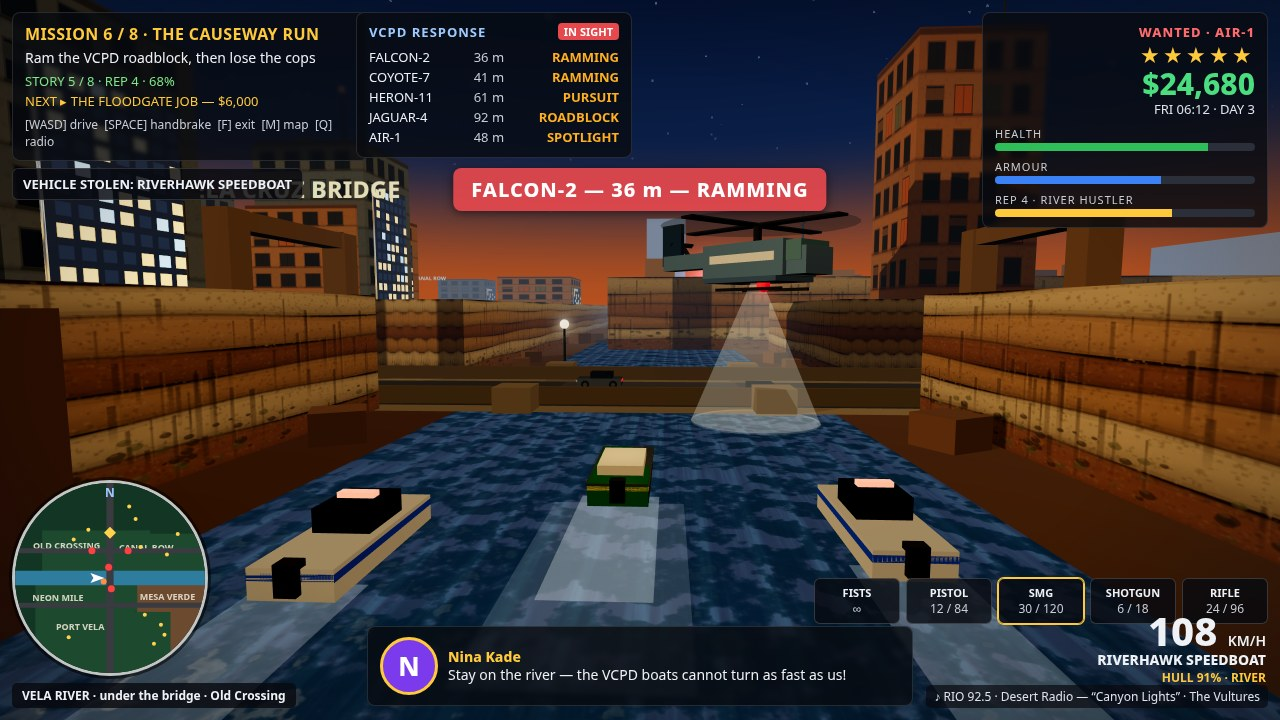
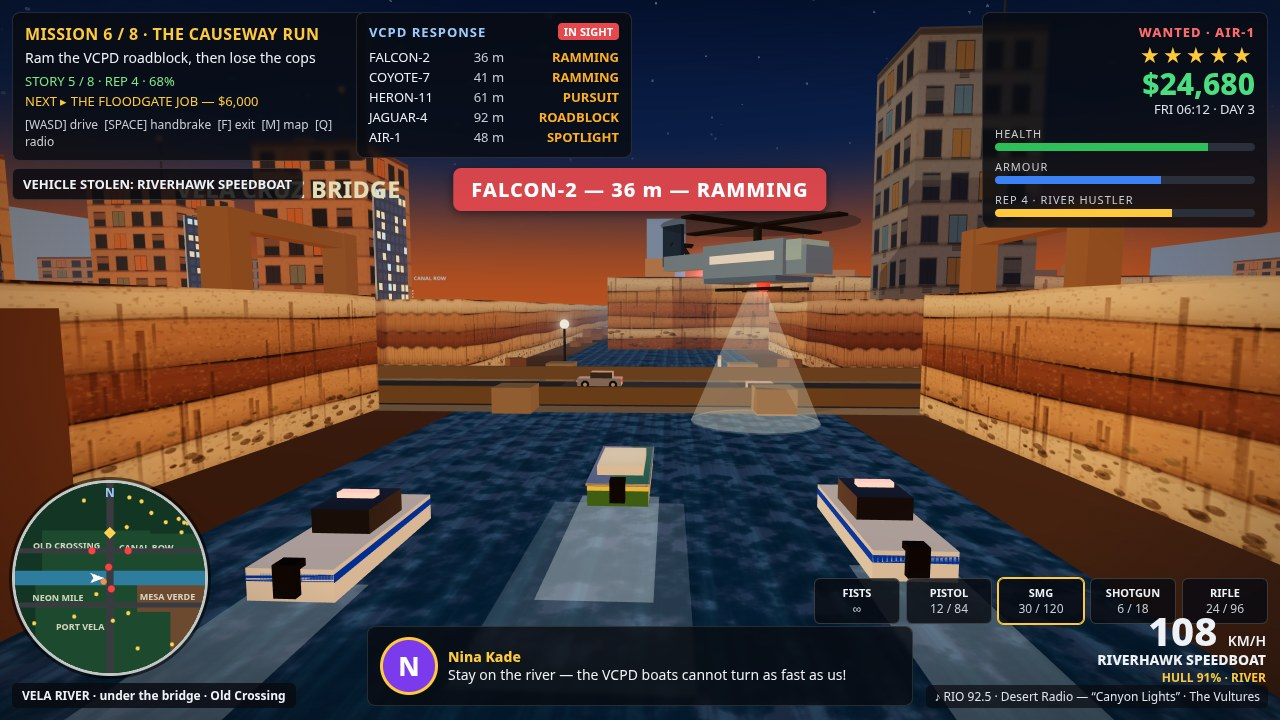
v6 visual revision — hour-aware river fresnel + calmer glint, PMREM sky env, dielectric hero car, wet-road sunset reflection, toast to top, river-level wide reframe

diff --git a/game/src/atmosphere.js b/game/src/atmosphere.js
@@ -281,16 +281,17 @@ export function createWater(scene, half = 210, riverHalf = 16) {
         vec4 cz = chop(p + vec2(0.0, 0.9), t);
         float a = c0.y, b = c0.z, c = c0.w;
 
-        vec2 slope = clamp(vec2(c0.x - cx.x, c0.x - cz.x) * 12.0, -0.55, 0.55);
+        vec2 slope = clamp(vec2(c0.x - cx.x, c0.x - cz.x) * 6.0, -0.55, 0.55); // calmer normals, chop still visible at chase distance
         vec3 N = normalize(vec3(slope.x, 1.0, slope.y));
 
         vec3 V = normalize(uCam - vWorld);
         vec3 L = normalize(uSunDir);
         float ndv = clamp(dot(V, N), 0.0, 1.0);
-        float F = clamp((0.03 + 0.97 * pow(1.0 - ndv, 4.0)) * 1.35, 0.0, 1.0); // grazing = mirror
+        float warm = smoothstep(0.42, 0.10, L.y); // 1 at golden hour, 0 mid-morning
+        // Cap Fresnel by hour: morning ~0.55 (blue body shows), golden ~0.85
+        float F = clamp((0.03 + 0.97 * pow(1.0 - ndv, 4.0)) * 1.35, 0.0, mix(0.55, 0.85, warm)); // hour-aware mirror cap
         vec3 R = reflect(-V, N);
         float sd = max(dot(R, L), 0.0);
-        float warm = smoothstep(0.42, 0.10, L.y); // 1 at golden hour, 0 mid-morning
 
         vec3 body = uDeep * vec3(0.80, 1.02, 1.18); // blue bias, never amber
         body *= 0.86 + 0.34 * b;                    // mottled depth at 30-80 m
@@ -308,14 +309,16 @@ export function createWater(scene, half = 210, riverHalf = 16) {
         // broken glitter lane toward the sun: broad glow, sheen, hard hits
         float laneF = 0.28 + 0.72 * smoothstep(0.34, 0.78, lane);
         vec3 glintCol = mix(uSunColor, vec3(1.0), 0.35);
-        col += glintCol * pow(sd, 7.0) * 0.16;
-        col += glintCol * pow(sd, 45.0) * 0.85 * laneF;
-        col += glintCol * pow(sd, 320.0) * 4.6 * laneF;
+        float glintT = 0.10 + 0.90 * warm;        // dawn 0.10, gold 1.0: sun lane tint only
+        float glintH = glintT * glintT;           // hard hits gate quadratically, so dawn ~0
+        col += glintCol * pow(sd, 7.0) * 0.10 * laneF;                    // soft sun lane, dawn-safe
+        col += glintCol * pow(sd, 45.0) * 0.30 * laneF * glintT;          // warm sheen on the lane
+        col += glintCol * pow(sd, 320.0) * 0.45 * laneF * glintH;         // hard core: gold only
 
         // sparkle pinpricks: low enough frequency to survive chase-cam range
         float sp = smoothstep(0.58, 0.94, a * b * 2.3);
-        col += glintCol * sp * pow(sd, 3.0) * 2.2 * (0.35 + 0.85 * F);
-        col += glintCol * smoothstep(0.66, 0.96, b * c * 2.1) * pow(sd, 6.0) * 1.2;
+        col += glintCol * sp * pow(sd, 3.0) * 0.45 * (0.35 + 0.85 * F) * glintH;
+        col += glintCol * smoothstep(0.66, 0.96, b * c * 2.1) * pow(sd, 6.0) * 0.30 * glintH;
 
         // shore foam: irregular width and breakup instead of a painted line
         float fn = texture2D(uNoise, vec2(p.x * 0.16 - t * 0.025, p.y * 1.10 + 0.37)).r;

diff --git a/game/src/render.js b/game/src/render.js
@@ -34,6 +34,31 @@ export function createRenderer(canvas, city) {
     city.sun.shadow.normalBias = 0.6;
   }
   const camera = new THREE.PerspectiveCamera(62, window.innerWidth / window.innerHeight, 0.1, 900);
+
+  // --- Environment / IBL from the sky dome ---------------------------------
+  // PMREM pre-filters the sky into the roughness mips used by
+  // scene.environment. We render a clone of the dome (fromScene needs a
+  // scene with ONLY the dome) so we never disturb the main scene graph.
+  const pmrem = new THREE.PMREMGenerator(renderer);
+  pmrem.compileEquirectangularShader();
+  const envScene = new THREE.Scene();
+  const envDome = city.sky.mesh.clone();          // clone, don't remove the real one
+  envDome.material = city.sky.mesh.material;      // share the live ShaderMaterial (same uniforms)
+  envScene.add(envDome);
+  let envRT = null;
+  let envHour = null; // last hour the env was generated for
+  function updateEnv(hour) {
+    // The dome's shader uniforms were already updated by city.setHour(hour),
+    // so rendering it now captures the current hour's sky. Regenerate only
+    // when the hour moved enough to matter (the game loop calls setHour
+    // every frame; a PMREM gen per frame would tank it).
+    if (hour !== undefined && envHour !== null && Math.abs(hour - envHour) < 0.1) return;
+    if (envRT) envRT.dispose();
+    envRT = pmrem.fromScene(envScene);
+    city.scene.environment = envRT.texture;
+    if (hour !== undefined) envHour = hour;
+  }
+  updateEnv(); // boot: matches whatever hour city started at
   window.addEventListener('resize', () => {
     camera.aspect = window.innerWidth / window.innerHeight;
     camera.updateProjectionMatrix();
@@ -55,7 +80,10 @@ export function createRenderer(canvas, city) {
     followSun(player) {
       if (city.followSun) city.followSun(player.x, player.z);
     },
-    setHour(hour) { city.setHour(hour); },
+    setHour(hour) { city.setHour(hour); updateEnv(hour); },
+    /** Regenerate scene.environment from the sky dome (called by the
+     *  city.setHour wrapper in main.js, since staging calls that directly). */
+    updateEnv(hour) { updateEnv(hour); },
     setExposure(e) { renderer.toneMappingExposure = e; },
     /** Free camera for staged wide shots: position + aim, locked until follow/snap. */
     setCam(x, y, z, lx, ly, lz) {

diff --git a/game/src/vehicles.js b/game/src/vehicles.js
@@ -8,9 +8,9 @@ function buildCarMesh(color) {
   const g = new THREE.Group();
   // v4: glossier hero paint + hubcaps, matching the traffic-car upgrade —
   // the chase camera lives on this car, so its paint is the game's paint.
-  const body = new THREE.Mesh(new THREE.BoxGeometry(CAR.width, 0.8, CAR.length), new THREE.MeshPhysicalMaterial({ color, roughness: 0.22, metalness: 0.55, clearcoat: 1.0, clearcoatRoughness: 0.08 }));
+  const body = new THREE.Mesh(new THREE.BoxGeometry(CAR.width, 0.8, CAR.length), new THREE.MeshPhysicalMaterial({ color, roughness: 0.3, metalness: 0.0, clearcoat: 1.0, clearcoatRoughness: 0.12, envMapIntensity: 0.6 }));
   body.position.y = 0.7; g.add(body);
-  const cabin = new THREE.Mesh(new THREE.BoxGeometry(1.6, 0.7, 2.0), new THREE.MeshPhysicalMaterial({ color: 0x0a0e14, roughness: 0.05, metalness: 0.9, clearcoat: 1.0 }));
+  const cabin = new THREE.Mesh(new THREE.BoxGeometry(1.6, 0.7, 2.0), new THREE.MeshPhysicalMaterial({ color: 0x0a0e14, roughness: 0.08, metalness: 0.0, clearcoat: 1.0, clearcoatRoughness: 0.05, envMapIntensity: 0.5 }));
   cabin.position.set(0, 1.4, -0.3); g.add(cabin);
   // Dark grille strip across the nose.
   const grille = new THREE.Mesh(new THREE.BoxGeometry(1.2, 0.18, 0.08), new THREE.MeshStandardMaterial({ color: 0x0b0b0b, roughness: 0.4, metalness: 0.6 }));
@@ -42,7 +42,7 @@ function buildCarMesh(color) {
     l.position.set(x, 0.75, 2.31); g.add(l);
   }
   // Red rear light bar — the chase camera mostly sees the back of the car.
-  const tail = new THREE.Mesh(new THREE.BoxGeometry(1.7, 0.22, 0.1), new THREE.MeshStandardMaterial({ color: 0xaa1111, emissive: 0xff2222, emissiveIntensity: 1.4 }));
+  const tail = new THREE.Mesh(new THREE.BoxGeometry(1.7, 0.22, 0.1), new THREE.MeshPhysicalMaterial({ color: 0xaa1111, roughness: 0.15, metalness: 0.0, clearcoat: 1.0, clearcoatRoughness: 0.06, emissive: 0xff2222, emissiveIntensity: 0.8, envMapIntensity: 1.0 }));
   tail.position.set(0, 0.85, -2.31); g.add(tail);
   g.traverse((o) => { if (o.isMesh) o.castShadow = true; }); // v3: real shadows
   return g;

diff --git a/game/src/shots.js b/game/src/shots.js
@@ -112,7 +112,7 @@ export function stageShot(name, G) {
     // Now the camera sits OVER the river's east end looking west: the water
     // is a leading line down the middle of the frame, the bridge crosses it
     // mid-frame, downtown + sunset beyond, canyon walls framing both sides.
-    cam = [120, 40, 0, -40, 0, -30];
+    cam = [110, 14, 2, -30, 3, -6];
   } else if (name === 'night') {
     // 3 — NIGHT RAIN ON FOOT: over-shoulder close at Neon Mile, wet road
     // lamp streaks, lit windows, muzzle flash, PRESS F – STEAL.
@@ -187,11 +187,11 @@ export function stageShot(name, G) {
     G.ui.dialogue = { ...CHARACTERS.mara, line: 'Lose that helicopter before you bring the money to my garage!' };
     G.ui.stolen = true;
     G.ui.bridgeLift = '0:12';
-    stageTrafficNear(G, [[0, -58], [1, -75], [3, -20]], [[0, -11, -30], [1, 11, -48], [2, -11, -62], [3, 11, -20]]);
-    G.hud.toast('DRIFT ×3  ·  +$150 NEAR MISS', 60000);
-    // v3.2: back to the v3.0 framing — the closer v3.1 camera made the
-    // Solano GT block the frame and cropped the helicopter.
-    cam = [1.5, 3.0, 30, 0, 2.2, -30];
+    G.city.setWet(true);
+    stageTrafficNear(G, [[0, -58], [1, -75]], [[0, -11, -30], [1, 11, -48], [2, -11, -62]]);
+    G.hud.toast('DRIFT ×3  ·  +$150 NEAR MISS', 2500);
+    // v5: ~8.7 m behind, slightly lower — bigger hero car, heli still in frame.
+    cam = [1.5, 2.7, 26.7, 0, 2.2, -30];
   }
   syncHud(G, lookH, back);
   if (cam) G.renderer.setCam(...cam);

diff --git a/game/src/city.js b/game/src/city.js
@@ -189,7 +189,13 @@ export function createCity(seed = 7) {
   // roadMat is shared so setWet() can make every road glossy in one place.
   // v4: real asphalt texture (tiled every ~8 m via UV scaling) instead of a
   // flat grey plane — the road surface is half of every street-level frame.
-  const roadMat = new THREE.MeshStandardMaterial({ color: 0xffffff, roughness: 0.95, map: asphaltTexture() });
+  const roadMat = new THREE.MeshStandardMaterial({
+    color: 0xffffff,
+    roughness: 0.95,
+    metalness: 0.0,          // never metallic — avoids the "flat dark brown" crush
+    envMapIntensity: 0.0,    // no sky reflection while dry
+    map: asphaltTexture(),
+  });
   function scaleRoadUVs(geo, w, d) {
     const uv = geo.attributes.uv;
     for (let i = 0; i < uv.count; i += 1) uv.setXY(i, uv.getX(i) * (w / 8), uv.getY(i) * (d / 8));
@@ -580,8 +586,9 @@ export function createCity(seed = 7) {
     /** Wet roads: glossy dark asphalt + visible lamp streaks. Dry: matte. */
     setWet(on) {
       wet = on;
-      roadMat.roughness = on ? 0.18 : 0.95;
-      roadMat.metalness = on ? 0.7 : 0.05;
+      roadMat.roughness = on ? 0.28 : 0.95;   // glossy-but-not-mirror when wet
+      roadMat.metalness = 0.0;                // keep dielectric in both states
+      roadMat.envMapIntensity = on ? 1.2 : 0.0; // sunset sky reflects only when wet
       for (const s of streaks) s.material.opacity = on ? 0.7 : 0;
     },
     setHour(hour) {

diff --git a/game/src/main.js b/game/src/main.js
@@ -37,6 +37,11 @@ const weapons = createWeapons(city.scene);
 const radio = createRadio();
 const hud = createHud();
 const renderer = createRenderer(canvas, city);
+// Staging (?shot=) calls G.city.setHour directly, bypassing renderer's
+// setHour — wrap it so every hour change also refreshes scene.environment.
+// The 0.1 h guard inside updateEnv keeps the per-frame game-loop calls cheap.
+const citySetHour = city.setHour.bind(city);
+city.setHour = (hour) => { citySetHour(hour); renderer.updateEnv(hour); };
 
 let save = ensureSave();
 let story = createStory(save);

diff --git a/game/src/hud.js b/game/src/hud.js
@@ -92,6 +92,8 @@ export function createHud() {
     toast(msg, ms = 2200) {
       const el = $('toast');
       el.textContent = msg;
+      el.style.top = '14%';          // anchor near top, clear of the centre-frame hero car
+      el.style.bottom = 'auto';
       el.style.display = 'block';
       if (toastTimer) clearTimeout(toastTimer);
       toastTimer = setTimeout(() => { el.style.display = 'none'; }, ms);

diff --git a/main.ts b/main.ts
@@ -20,7 +20,7 @@ import { buildDossier } from './vendor/makefun-game.ts';
 // Vela Cruz — authored entry metadata and pre-flight checks (v3 visual revision).
 const VELA_CRUZ = {
   name: 'Vela Cruz',
-  version: '1.5.0',
+  version: '1.5.1',
   city: 'Vela Cruz — river-canyon open-world crime game',
   shots: ['1-wide.jpg', '2-cover.jpg', '3-night.jpg', '4-boat.jpg'],
 } as const;
